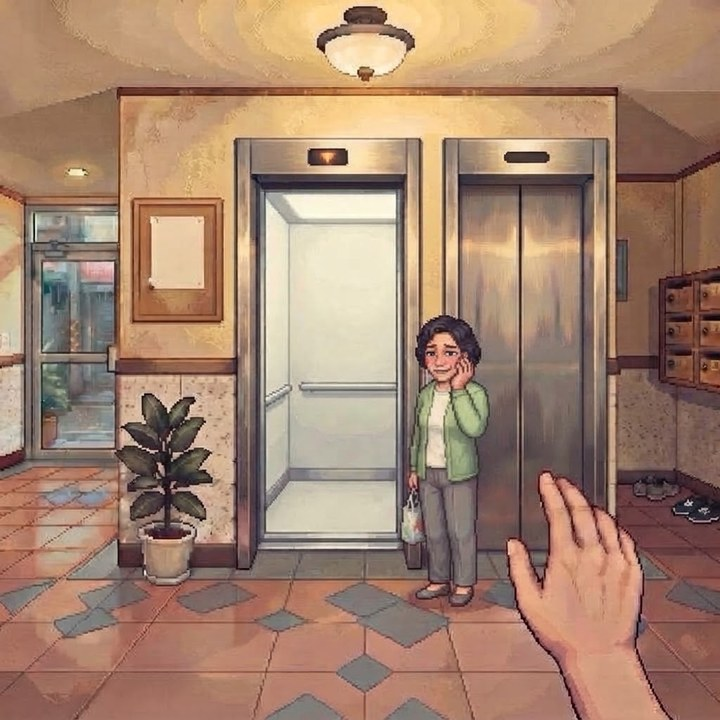
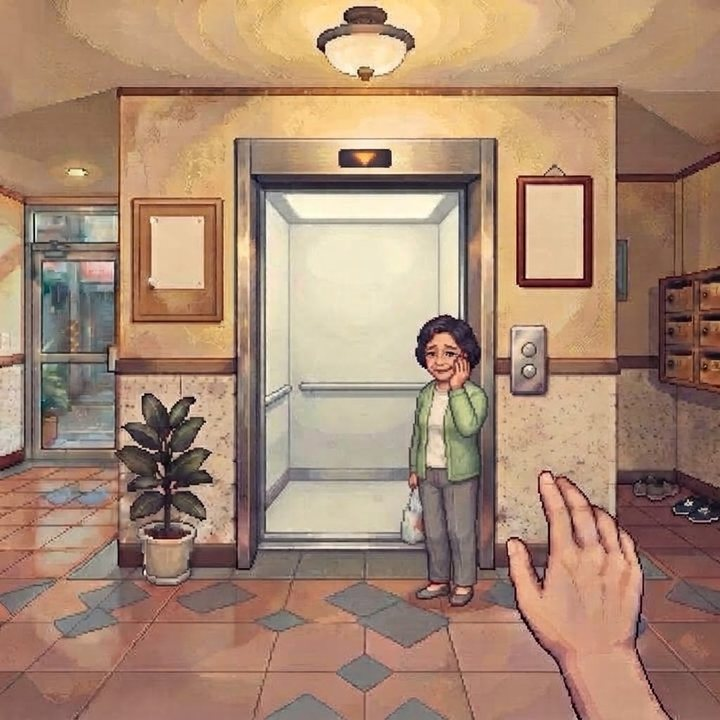
管理員選項改成「閃開啦！」；大廳改成一部電梯（文字與 dir、dir_sorry 圖）
Claude-Session: https://claude.ai/code/session_01VBTS7p46fLiLEiGWRv9MpM

Changed region(s): [[0.4278, 0.1833, 0.8556, 0.7944], [0.3361, 0.3056, 0.3667, 0.3361]]

diff --git a/games/elevator/index.html b/games/elevator/index.html
@@ -262,7 +262,7 @@ const VOCAB = {
   RESULT: [['分數', 'puntos', 'score'], ['錯誤', 'error', 'mistake'], ['扣分', 'restar puntos', 'lose points']]
 };
 const STAGE = { GUARD: ['管理員', 'el guardia', 'the guard'], CHAT: ['聊天', 'charlar', 'small talk'], FART: ['怪味道', 'mal olor', 'bad smell'], DOG: ['小狗', 'el perrito', 'the dog'], LOBBY: ['大廳', 'vestíbulo', 'lobby'], DIR: ['看箭頭', 'mirar la flecha', 'checking the arrow'], WAIT: ['等人', 'esperar', 'waiting'], FLOOR: ['按樓層', 'elegir piso', 'choosing a floor'], HELP: ['幫忙', 'ayudar', 'helping'], HELP2: ['鄰居改口', 'el vecino se corrige', 'neighbor corrects himself'], EARLY: ['看樓層', 'mirar el piso', 'checking the floor'], STOP: ['鄰居下樓', 'el vecino baja', 'neighbor exits'], STOP_FIX: ['鄰居下樓', 'el vecino baja', 'neighbor exits'], ARRIVE: ['出電梯', 'salir', 'exiting'], DOOR: ['按電鈴', 'tocar el timbre', 'ringing the bell'], DOOR_WRONG: ['按錯門', 'puerta equivocada', 'wrong door'] };
-const NEXT_LABEL = { GUARD: '管理員叫住你', CHAT: '電梯往上', FART: '電梯往上', DOG: '電梯往上', LOBBY: '走到電梯前', DIR: '兩部電梯來了', WAIT: '電梯來了', FLOOR: '鄰居走進電梯', HELP: '電梯往上', HELP2: '電梯往上', STOP: '電梯停了', STOP_FIX: '電梯繼續往上', EARLY: '電梯又停了', ARRIVE: '繼續往上', DOOR: '走到Ami家門口', END: '門開了' };
+const NEXT_LABEL = { GUARD: '管理員叫住你', CHAT: '電梯往上', FART: '電梯往上', DOG: '電梯往上', LOBBY: '走到電梯前', DIR: '電梯來了', WAIT: '電梯來了', FLOOR: '鄰居走進電梯', HELP: '電梯往上', HELP2: '電梯往上', STOP: '電梯停了', STOP_FIX: '電梯繼續往上', EARLY: '電梯又停了', ARRIVE: '繼續往上', DOOR: '走到Ami家門口', END: '門開了' };
 
 const PLACES = {
   phone: ['📱', 'Ami', 'LINE · Mensaje', 'Message', 'phone'],
@@ -472,11 +472,11 @@ const Game = defineGame({
         place: 'shop',
         html: () => Game.displayHTML(),
         dialogue: () => [L('（你走進大樓。櫃台後面的管理員看著你。）', '(Entras al edificio. El guardia detrás del mostrador te mira.)', '(You walk into the building. The guard behind the desk looks at you.)'), L('管理員：你找哪一戶？', '¿A qué departamento va?', 'Which unit are you looking for?')],
-        options: () => rot([guardOk, '（不理他，直接走）', '我要上樓。']),
+        options: () => rot([guardOk, '（不理他，直接走）', '閃開啦！']),
         next: c => {
           if (c !== guardOk) {
-            Game.addMistake(c === '我要上樓。'
-              ? M(`管理員問你找哪一戶，要說清楚：找朋友，住在${t.n}樓之${t.unit}。`, `El guardia pregunta a qué puerta vas: di claro que buscas a una amiga que vive en el piso ${t.n}, puerta ${t.unit}.`, `The guard asks which unit — say clearly that you're visiting a friend on floor ${t.n}, unit ${t.unit}.`)
+            Game.addMistake(c === '閃開啦！'
+              ? M('管理員只是問你找哪一戶，不要叫他閃開，很沒禮貌。要說：找朋友，住在幾樓之幾。', 'El guardia solo pregunta a qué puerta vas: no le digas que se aparte, es de mala educación. Responde con quién buscas y en qué piso vive.', 'The guard is only asking which unit you want — do not tell him to get out of the way, it is rude. Say who you are visiting and where she lives.')
               : M('管理員問你話，要回答他，不要不理他。', 'El guardia te hizo una pregunta: respóndele, no lo ignores.', "The guard asked you a question — answer him, don't ignore him."));
             return;
           }
@@ -496,10 +496,10 @@ const Game = defineGame({
           Game.state = t.dirDown ? 'DIR' : 'WAIT';
         }
       },
-      /* ═══ 兩部電梯同時來了，先開門的那部是往下的（去地下室）：阿姨問「是往上的嗎？」，要客氣地告訴她 ═══ */
+      /* ═══ 電梯來了，但上面亮的是▼（往下，去地下室）：阿姨問「是往上的嗎？」，要客氣地告訴她 ═══ */
       DIR: catchState(Game, {
         key: 'DIR', place: 'shop', html: () => Game.displayHTML('▼'),
-        dialogue: () => [L('（兩部電梯同時來了。左邊那部先開了門。旁邊的阿姨走過來，問你：）', '(Llegan dos ascensores a la vez. El de la izquierda abre primero. Una señora se acerca y te pregunta:)', '(Two elevators arrive at once. The one on the left opens first. A lady next to you asks:)'), ay('請問，這部是往上的嗎？', 'Disculpe, ¿este sube?', 'Excuse me, does this one go up?')],
+        dialogue: () => [L('（電梯來了，門開了，上面亮著▼。旁邊的阿姨走過來，問你：）', '(Llega el ascensor y abre la puerta, con la ▼ encendida. Una señora se acerca y te pregunta:)', '(The elevator arrives and the door opens, with the ▼ lit. A lady next to you asks:)'), ay('請問，這部是往上的嗎？', 'Disculpe, ¿este sube?', 'Excuse me, does this one go up?')],
         ok: '對，往上，請進。', fix: () => '不好意思，這部是往下的。', rude: '你自己不會看嗎？',
         wrong: () => true,
         whyWrong: () => M('上面亮的是▼，這部是往下的。要客氣地告訴阿姨，不要讓她搭錯。', 'Arriba está encendida la ▼: este baja. Dile con cortesía a la señora para que no se equivoque.', 'The ▼ is lit above: this one goes down. Tell the lady politely so she does not board the wrong one.'),
@@ -508,7 +508,7 @@ const Game = defineGame({
         goodOk: ['你很細心！上電梯以前，要先看上面的箭頭。', '¡Qué atento! Antes de subir, mira la flecha de arriba.', 'Well spotted! Check the arrow above before you get in.'],
         apology: () => [ay('啊，是往下的！不好意思，謝謝你！', '¡Ay, es el que baja! Disculpe, ¡gracias!', 'Oh, it goes down! Sorry, thank you!')],
         go: () => {
-          Game.thought = [...Game.thought, L('（右邊那部電梯也開了，上面亮著▲。你走了進去。）', '(El ascensor de la derecha también abre, con la ▲ encendida. Entras.)', '(The elevator on the right opens too, with the ▲ lit. You step in.)')];
+          Game.thought = [...Game.thought, L('（往下的電梯關上門走了。過了一會兒，電梯又來了，這次上面亮著▲。你走了進去。）', '(El ascensor que baja cierra la puerta y se va. Poco después llega otro, esta vez con la ▲ encendida. Entras.)', '(The elevator going down closes its doors and leaves. A moment later one arrives again, this time with the ▲ lit. You step in.)')];
           Game.state = 'WAIT';
         }
       }),

diff --git a/tools/elevator_test.py b/tools/elevator_test.py
@@ -99,7 +99,7 @@ def run(b):
         check('DIR 客氣提醒：進過場、不扣分', st(p) == '_TRANS' and trans_from(p) == 'DIR' and mis(p) == m0 + (0 if first == 'fix' else 1), (st(p), mis(p)))
         check('DIR 過場：阿姨不好意思（dir_sorry.jpg）', img(p).endswith('dir_sorry.jpg'), img(p))
         tx = txt(p, '#npc-dialogue')
-        check('DIR 過場：阿姨的道歉＋右邊電梯', '是往下的！不好意思，謝謝你！' in tx and '右邊那部電梯也開了' in tx, tx)
+        check('DIR 過場：阿姨的道歉＋新來的電梯', '是往下的！不好意思，謝謝你！' in tx and '電梯又來了，這次上面亮著▲' in tx, tx)
         check('DIR 過場：第一次就對才有綠卡', (p.locator('.fb.good').count() == 1) == (first == 'fix'), p.locator('.fb.good').count())
         leave_trans(p); check('DIR 之後是 WAIT', st(p) == 'WAIT' and not disp(p).startswith('▼'), (st(p), disp(p)))
         p.close()
@@ -290,9 +290,9 @@ def run(b):
     # ── 管理員：問你找哪一戶 ──
     p = new_page(b); set_task(p, n=9, m=3, unit=3); to_guard(p)
     check('GUARD：管理員問「你找哪一戶？」、沒有先生小姐', '管理員：你找哪一戶？' in txt(p, '#npc-dialogue') and '先生' not in screen(p) and '小姐' not in screen(p), txt(p, '#npc-dialogue'))
-    check('GUARD 三個選項', sorted(o.strip() for o in opts(p)) == sorted(['我要找朋友，她住在9樓之3。', '（不理他，直接走）', '我要上樓。']), opts(p))
+    check('GUARD 三個選項', sorted(o.strip() for o in opts(p)) == sorted(['我要找朋友，她住在9樓之3。', '（不理他，直接走）', '閃開啦！']), opts(p))
     check('GUARD 圖是 guard.jpg', img(p).endswith('guard.jpg'), img(p))
-    for bad in ('（不理他，直接走）', '我要上樓。'):
+    for bad in ('（不理他，直接走）', '閃開啦！'):
         m0 = mis(p); press(p, bad); check(f'GUARD 選「{bad}」：扣分、留在 GUARD', mis(p) == m0 + 1 and st(p) == 'GUARD')
     press(p, '我要找朋友，她住在9樓之3。'); leave_trans(p)
     check('GUARD 答對：進 LOBBY', st(p) == 'LOBBY', st(p))
